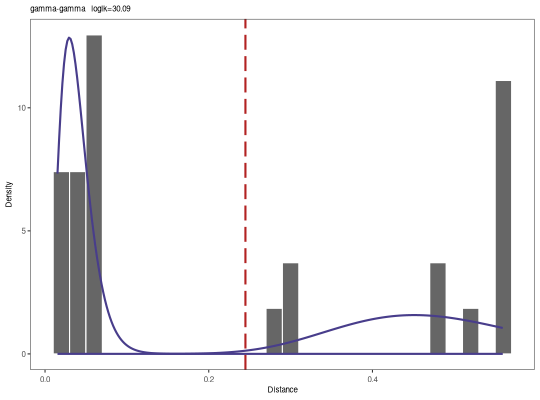
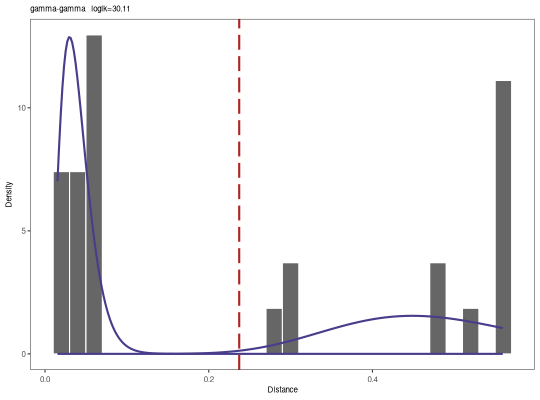
[skip ci] Auto-render docs.

diff --git a/docs/topics/calcBaseline.md b/docs/topics/calcBaseline.md
@@ -20,7 +20,6 @@ targetingModel = HH_S5F,
 mutationDefinition = NULL,
 calcStats = FALSE,
 nproc = 1,
-cloneColumn = NULL,
 juncLengthColumn = NULL
 )
 ```
@@ -69,12 +68,6 @@ nproc
 :   number of cores to distribute the operation over. If 
 `nproc=0` then the `cluster` has already been
 set and will not be reset.
-
-cloneColumn
-:   `character` name of the column in `db` 
-containing clonal identifiers. Relevant only for 
-when regionDefinition includes CDR and FWR4 (else
-this value can be `NULL`)
 
 juncLengthColumn
 :   `character` name of the column in `db` 

diff --git a/docs/topics/expectedMutations.md b/docs/topics/expectedMutations.md
@@ -18,7 +18,6 @@ targetingModel = HH_S5F,
 regionDefinition = NULL,
 mutationDefinition = NULL,
 nproc = 1,
-cloneColumn = "clone_id",
 juncLengthColumn = "junction_length"
 )
 ```
@@ -57,9 +56,6 @@ nproc
 over. If the cluster has already been set the call function with 
 `nproc` = 0 to not reset or reinitialize. Default is 
 `nproc` = 1.
-
-cloneColumn
-:   clone id column name in `db`
 
 juncLengthColumn
 :   junction length column name in `db`

diff --git a/docs/topics/observedMutations.md b/docs/topics/observedMutations.md
@@ -20,7 +20,6 @@ ambiguousMode = c("eitherOr", "and"),
 frequency = FALSE,
 combine = FALSE,
 nproc = 1,
-cloneColumn = "clone_id",
 juncLengthColumn = "junction_length"
 )
 ```
@@ -78,9 +77,6 @@ nproc
 cluster has already been set the call function with 
 `nproc` = 0 to not reset or reinitialize. Default is 
 `nproc` = 1.
-
-cloneColumn
-:   clone id column name in `db`
 
 juncLengthColumn
 :   junction length column name in `db`

diff --git a/docs/news.md b/docs/news.md
@@ -1,7 +1,12 @@
 # Release Notes
 
-Version dev:
+Version 1.3.2.999: Unreleased
 -------------------------------------------------------------------------------
+
+Mutation Profiling:
+
++ Removed the unused `cloneColumn` argument from `observedMutations()`, 
+  `expectedMutations()`, and `calcBaseline()`.
 
 Targeting models:
 

diff --git a/docs/vignettes/DistToNearest-Vignette.md b/docs/vignettes/DistToNearest-Vignette.md
@@ -293,7 +293,7 @@ print(output)
 ```
 
 ```
-## [1] 0.1217029
+## [1] 0.1171756
 ```
 
 **Note:** The shape of histogram plotted by `plotGmmThreshold` is

diff --git a/docs/topics/findThreshold.md b/docs/topics/findThreshold.md
@@ -151,7 +151,7 @@ print(output)
 
 
 ```
-[1] 0.2448172
+[1] 0.2372238
 
 ```
 
